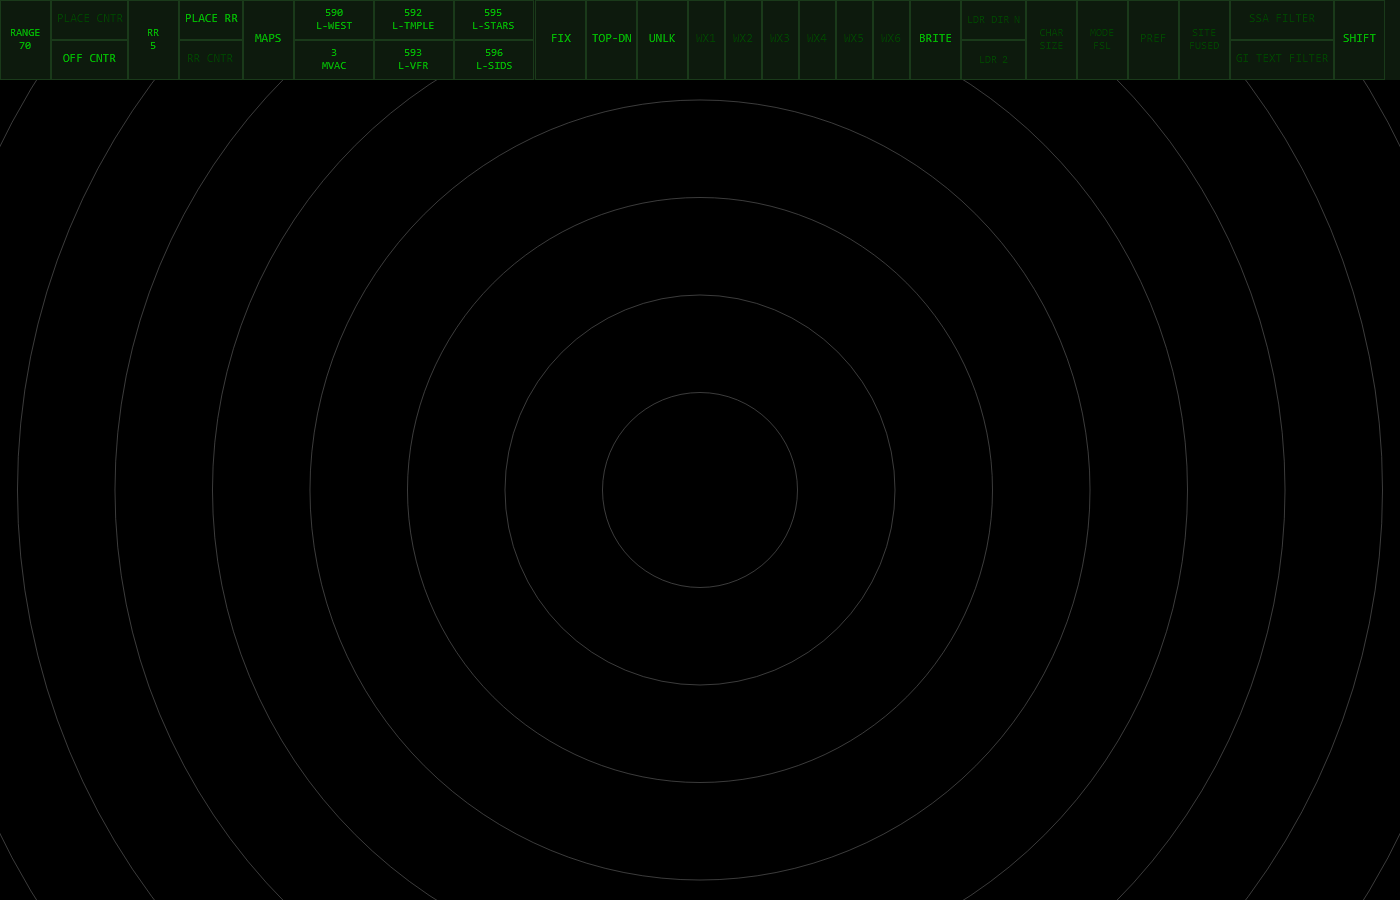
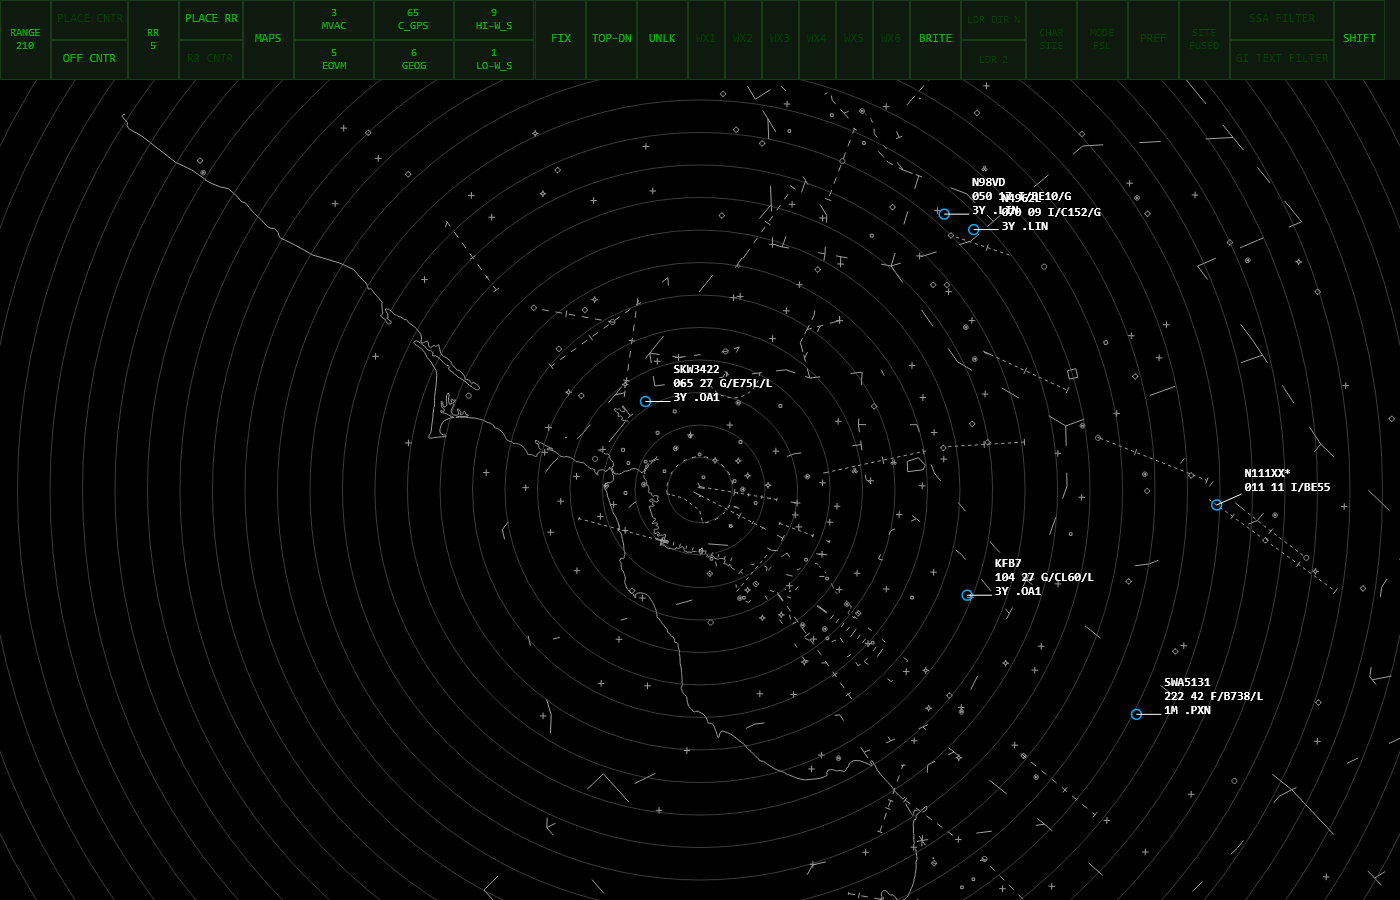
docs: regenerate radar screenshots on NCT C scenario with LO-W_S map
Radar view scenes now load S3-NCTC-3 (59 airborne aircraft in NCT
TRACON), enable the LO-W_S video map, fast-forward the sim 8 minutes
of sim time so fix-anchored aircraft populate, and dial range to 120
NM so full datablocks fit inside the canvas without clipping.

diff --git a/tools/Yaat.GuideCapture/Scenes/RadarViewScene.cs b/tools/Yaat.GuideCapture/Scenes/RadarViewScene.cs
@@ -1,12 +1,89 @@
+using Avalonia.Controls;
+using Avalonia.Threading;
+using Yaat.Client.ViewModels;
+using Yaat.GuideCapture.Capture;
+
 namespace Yaat.GuideCapture.Scenes;
 
-// USER_GUIDE.md > Views > Radar View. Same scenario; tab 2 shows the radar
-// canvas. With aircraft at parking they'll be ground tracks rather than
-// airborne tags, but the canvas still exercises range-rings, sector
-// geometry, and aircraft tag rendering through MapDrawOperation.
+// USER_GUIDE.md > Views > Radar View. Loads the S3-NCTC-3 (Area C Complete)
+// scenario — 59 airborne aircraft in NCT TRACON airspace — enables the
+// LO-W_S video map (NCT TRACON's "Low West Sector" overlay), and dials the
+// range out to 120 NM so the airspace fits inside the canvas with margin
+// for full datablocks (callsign + altitude + groundspeed + scratchpad)
+// without clipping at the canvas edges.
 internal sealed class RadarViewScene : ScenarioSceneBase
 {
     public override string Name => "radar-view";
 
     protected override int TabIndex => 2;
+
+    protected override string ScenarioFile => "01J02M96SPYP4JV55R5RMVCQBS.json";
+
+    protected override Task OnSceneReadyAsync(Window window, MainViewModel vm, CaptureContext ctx) => EnableLoWestSectorAsync(vm);
+
+    public static async Task EnableLoWestSectorAsync(MainViewModel vm)
+    {
+        // Wait for the server to push the initial aircraft state — vm.HasScenario
+        // flips on the LoadScenarioResult arriving, but the AircraftUpdated
+        // broadcasts (which populate vm.Aircraft) trickle in after.
+        await SceneActions.WaitUntilAsync(() => vm.Aircraft.Count >= 30, TimeSpan.FromSeconds(20), "scenario aircraft to populate");
+
+        // Video maps are downloaded asynchronously after scenario load; the
+        // toggle list is populated as soon as the FacilityVideoMaps DTO
+        // arrives, but the map's geometry data takes longer (NCT references
+        // 212 maps and the first run downloads them all). Waiting only on the
+        // toggle leaves UpdateActiveMaps hitting a null cache and the map
+        // silently fails to draw.
+        await SceneActions.WaitUntilAsync(
+            () => vm.Radar.MapToggles.Any(t => string.Equals(t.ShortName, "LO-W_S", StringComparison.OrdinalIgnoreCase)),
+            TimeSpan.FromSeconds(45),
+            "LO-W_S video map toggle to populate"
+        );
+
+        var loToggle = vm.Radar.MapToggles.First(t => string.Equals(t.ShortName, "LO-W_S", StringComparison.OrdinalIgnoreCase));
+        await SceneActions.WaitUntilAsync(
+            () => vm.Radar.IsMapDataCached(loToggle.MapId),
+            TimeSpan.FromSeconds(120),
+            "LO-W_S map geometry to be cached"
+        );
+
+        // Run the sim briefly so fix-anchored aircraft (S3-NCTC-3 starts every
+        // jet at a named fix with no resolved lat/lon) get a tick to compute
+        // their position, leader line, and projected track. Without this the
+        // canvas paints aircraft-less because the AircraftModel positions are
+        // still at (0,0). Bump SIMRATE so the aircraft also separate visibly
+        // and the resulting radar feels live, not frozen at t=0.
+        if (vm.IsPaused)
+        {
+            await vm.TogglePauseCommand.ExecuteAsync(null);
+            await SceneActions.WaitUntilAsync(() => !vm.IsPaused, TimeSpan.FromSeconds(5), "sim to unpause");
+        }
+
+        var prevRateIndex = vm.SelectedSimRateIndex;
+        vm.SelectedSimRateIndex = Array.IndexOf(MainViewModel.SimRateOptions, 16);
+        // 30 real-seconds × 16x = ~8 minutes of sim time — long enough for fix-
+        // anchored aircraft to spread out from their start fixes, accept
+        // handoffs to TRACON positions, and have steady leader-line vectors.
+        await Task.Delay(TimeSpan.FromSeconds(30));
+        Dispatcher.UIThread.RunJobs();
+
+        // Re-pause to freeze the radar for a stable capture; restore the rate
+        // dropdown so the scene's terminal log shows '1x' under the play
+        // button rather than '16x' (which would be misleading for the guide).
+        if (!vm.IsPaused)
+        {
+            await vm.TogglePauseCommand.ExecuteAsync(null);
+            await SceneActions.WaitUntilAsync(() => vm.IsPaused, TimeSpan.FromSeconds(5), "sim to pause");
+        }
+        vm.SelectedSimRateIndex = prevRateIndex < 0 ? 0 : prevRateIndex;
+
+        // Range first so that the SaveSettings call triggered by the toggle
+        // flip writes RangeNm=120 to the prefs file. If we set range *after*
+        // the toggle, the prefs file ends up with RangeNm=40 (the
+        // ApplyVideoMapsDto default), and a downstream RestoreSettings would
+        // then snap the radar back to 40 NM before capture.
+        vm.Radar.RangeNm = 120;
+        loToggle.IsEnabled = true;
+        Dispatcher.UIThread.RunJobs();
+    }
 }

diff --git a/tools/Yaat.GuideCapture/Scenes/RadarViewPopoutScene.cs b/tools/Yaat.GuideCapture/Scenes/RadarViewPopoutScene.cs
@@ -9,6 +9,9 @@ namespace Yaat.GuideCapture.Scenes;
 // USER_GUIDE.md > Views > Radar View (popped out). Setting IsRadarViewPoppedOut
 // on the MainViewModel triggers MainWindow to spawn a RadarViewWindow with the
 // shared Radar VM. We capture that secondary window via GetCaptureTarget.
+//
+// Mirrors RadarViewScene's NCT C + LO-W_S + 120 NM setup so the popped-out
+// window shows the same useful airspace view, just sans MainWindow chrome.
 internal sealed class RadarViewPopoutScene : ScenarioSceneBase
 {
     public override string Name => "radar-view-window";
@@ -17,8 +20,12 @@ internal sealed class RadarViewPopoutScene : ScenarioSceneBase
     // a value. Aircraft List is a sensible fallback for the (now empty) main.
     protected override int TabIndex => 0;
 
-    protected override Task OnSceneReadyAsync(Window window, MainViewModel vm, CaptureContext ctx)
+    protected override string ScenarioFile => "01J02M96SPYP4JV55R5RMVCQBS.json";
+
+    protected override async Task OnSceneReadyAsync(Window window, MainViewModel vm, CaptureContext ctx)
     {
+        await RadarViewScene.EnableLoWestSectorAsync(vm);
+
         vm.IsRadarViewPoppedOut = true;
         Dispatcher.UIThread.RunJobs();
 
@@ -29,7 +36,6 @@ internal sealed class RadarViewPopoutScene : ScenarioSceneBase
         Dispatcher.UIThread.RunJobs();
         radar.UpdateLayout();
         Dispatcher.UIThread.RunJobs();
-        return Task.CompletedTask;
     }
 
     public override Window GetCaptureTarget(Window primary)

diff --git a/tools/Yaat.GuideCapture/Scenes/ScenarioSceneBase.cs b/tools/Yaat.GuideCapture/Scenes/ScenarioSceneBase.cs
@@ -13,11 +13,15 @@ namespace Yaat.GuideCapture.Scenes;
 // tab index, and any extra UI tweaks via OnSceneReadyAsync.
 internal abstract class ScenarioSceneBase : Scene
 {
-    private const string ScenarioFile = "01H06NVK7VN8BS7MCDXHKJZ7MQ.json";
-
     public override TimeSpan SettleAfterShow => TimeSpan.FromSeconds(2);
 
     protected abstract int TabIndex { get; }
+
+    // Default fixture: S1-OAK-1 Clearances Intro (18 aircraft on OAK parking).
+    // Override per-scene when a different scenario fits better — e.g. radar
+    // scenes use S3-NCTC-3 because it has 59 airborne aircraft in NCT TRACON
+    // airspace, not 18 stopped on a ramp.
+    protected virtual string ScenarioFile => "01H06NVK7VN8BS7MCDXHKJZ7MQ.json";
 
     public override Task BeforeWindowAsync(CaptureContext ctx)
     {

diff --git a/src/Yaat.Client/ViewModels/RadarViewModel.cs b/src/Yaat.Client/ViewModels/RadarViewModel.cs
@@ -230,6 +230,12 @@ public partial class RadarViewModel : ObservableObject
     /// </summary>
     public Dictionary<string, string> BrightnessLookup { get; } = [];
 
+    // Test/tooling accessor: lets Yaat.GuideCapture poll for video-map download
+    // completion before flipping a MapToggle.IsEnabled. Without this, enabling
+    // a toggle before LoadMapsAsync finishes leaves UpdateActiveMaps with a
+    // null cache hit and the map silently fails to draw.
+    internal bool IsMapDataCached(string mapId) => _videoMapService.GetCached(mapId) is not null;
+
     public RadarViewModel(
         ServerConnection connection,
         VideoMapService videoMapService,

diff --git a/tools/Yaat.GuideCapture/ModuleInit.cs b/tools/Yaat.GuideCapture/ModuleInit.cs
@@ -25,8 +25,10 @@ internal static class ModuleInit
             """
             {
               "vatsimCid": "9999999",
-              "userInitials": "GC",
-              "artccId": "ZOA"
+              "userInitials": "1M",
+              "artccId": "ZOA",
+              "assignmentTintEnabled": true,
+              "assignmentTintColor": "#0080FF"
             }
             """
         );